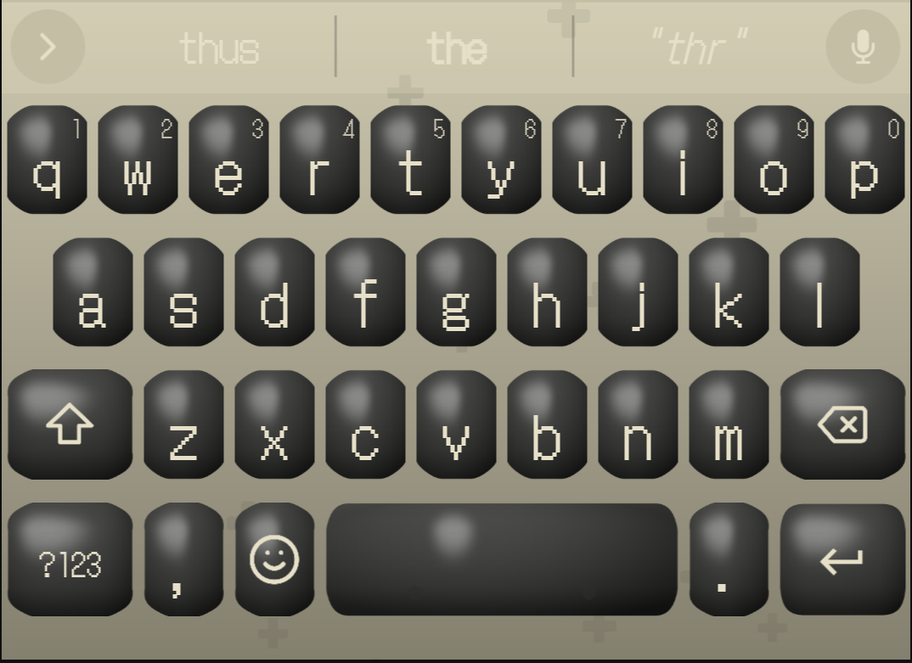
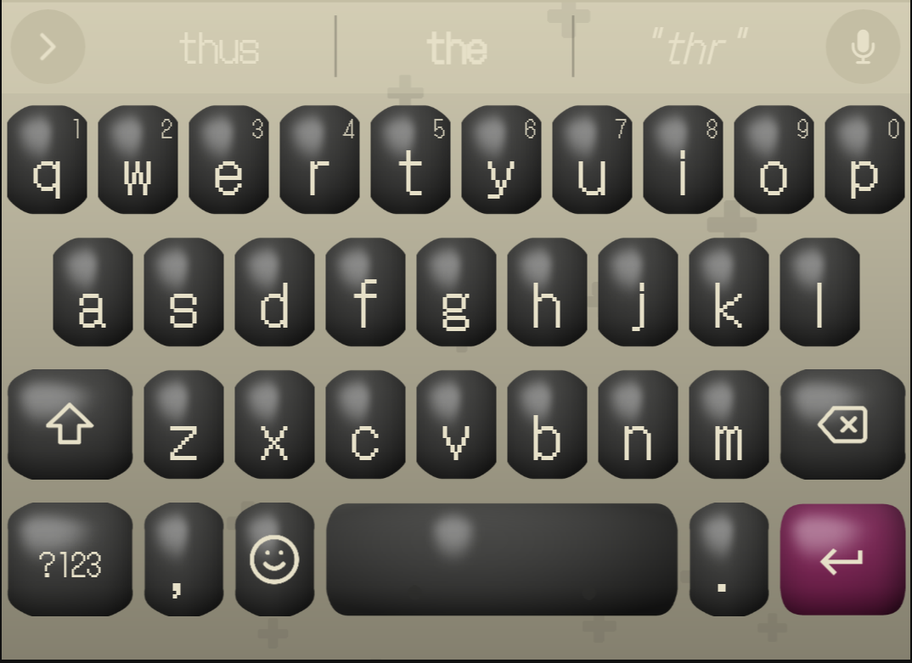
v24: fix NES's rectangular-button claim and Game Boy's missing magenta accent
Answers "is each console using console-appropriate buttons?" with real
evidence: downloaded archival photos (Wikimedia Commons, not generated
images) for all 4 console variants and pixel-sampled them.

- NES: the real A/B buttons are round, not the "famously rectangular"
  shape this profile claimed and rendered (radius_frac 0.13 -> 0.42).
- Game Boy (DMG): the real A/B buttons are a distinct dark magenta
  (~#7f1e53), the only color on an otherwise all-gray unit, previously
  missing entirely -- added via a real face_action fill.
- SNES and Game Boy Color checked and found already accurate enough to
  leave alone.

Along the way, found that render_organic_key's bloom_action/
bloom_stickyon mechanism has essentially zero visible effect (confirmed
by pixel-sampling) because the face layer painted on top almost fully
covers it -- switched Game Boy's fix to a real face_action override
instead, and flagged the same likely problem on every other variant's
bloom use as an open item rather than a full rendering-code fix.

Claude-Session: https://claude.ai/code/session_01UhcvxHcyfEAiJzj1f81x6W

Changed region(s): [[0.8289, 0.7541, 1.0, 0.9351]]

diff --git a/scripts/generate_variants.py b/scripts/generate_variants.py
@@ -160,7 +160,7 @@ HEAD_TEMPLATE = """\
 name = "{name}"
 author = "Shelbee"
 id = "{theme_id}"
-version = 6
+version = 7
 description = "{description}"
 
 [options]
@@ -799,11 +799,31 @@ CONSOLE_PROFILES = [
         "slug": "gameboy-dmg",
         "name": "Game Boy",
         "theme_id": "com.shelbee.gameboydmg",
-        "reference_note": "the original Game Boy (DMG)'s putty-gray shell and dark gray buttons (approximated -- no sourced hex found)",
-        "description": "Classic Game Boy (DMG) variant: dark gray buttons in a putty-gray shell, chunky and thick-bezeled like real molded plastic buttons, with a small D-pad-cross motif scattered on the background and marking caps-lock. No per-row or per-role color coding (the real hardware has none) -- only caps-lock brightens and picks up the console's own red power-LED glow. Set in DotGothic16.",
-        # Chunky molded plastic buttons sitting in a thick shell bezel --
-        # the DMG's brick-like housing is the most visible "well" of any
-        # variant here.
+        "reference_note": "the original Game Boy (DMG) via a real Wikimedia Commons archival photo (Game-Boy-FL.jpg by Evan-Amos, public domain, pixel-sampled directly): putty-gray shell, near-black D-pad/Select/Start, and dark magenta/burgundy (~#7f1e53) A/B buttons",
+        # CORRECTED: this profile previously had no magenta anywhere and
+        # called the buttons uniformly "dark gray" -- true of the D-pad
+        # and Select/Start, but not of A/B, which a real archival photo
+        # (downloaded and pixel-sampled, not guessed) shows are a
+        # distinct dark magenta/burgundy, the only spot of color on the
+        # whole unit. Gave the action key its own `face_action` in that
+        # sampled color -- a real, visible fill, not a `bloom_action`
+        # accent -- after discovering `render_organic_key`'s bloom effect
+        # is essentially invisible in practice: `bloom_*_color/_alpha`
+        # only shows in the sliver where a key's own silhouette differs
+        # from its neighbors' corner-rounding, which for most profiles'
+        # tight radius_frac/margin_frac/rim_frac gaps is imperceptibly
+        # thin even before blur washes it out further (confirmed by
+        # direct pixel-sampling: max R-G across a full center scanline
+        # was 0 at bloom_alpha up to 220). `face_action`/`face_stickyon`
+        # overrides (already how SNES and Groovy Code itself carry their
+        # accent colors) are the only mechanism in this renderer that
+        # reliably shows -- see the v24 changelog in docs/VARIANTS.md for
+        # the full writeup; this repo's other `bloom_action`/
+        # `bloom_stickyon` uses (NES, amber-terminal, every `stickyon`)
+        # likely have the same near-invisibility problem and are flagged
+        # as an open item rather than fixed here, since a real fix touches
+        # shared rendering code used by all 9 themes.
+        "description": "Classic Game Boy (DMG) variant: near-black D-pad and buttons in a putty-gray shell, chunky and thick-bezeled like real molded plastic buttons, with a dark magenta/burgundy action/enter key matching the real A/B buttons' actual color (the only non-gray element on the real hardware) and a small D-pad-cross motif scattered on the background. No per-row or per-role color coding otherwise -- only caps-lock brightens and picks up the console's own red power-LED glow. Set in DotGothic16.",
         "radius_frac": 0.30, "wobble": 0.09, "margin_frac": 0.14, "rim_frac": 0.020,
         "gap": 1.2,
         "font_file": "DotGothic16-Regular.ttf",
@@ -811,6 +831,7 @@ CONSOLE_PROFILES = [
         "face_top_blend": 0.12, "face_bottom_scale": 0.80,
         "well": (196, 190, 164),
         "face_default": (58, 58, 56),
+        "face_action": (127, 30, 83),
         "face_stickyon": (75, 75, 72),
         "rim": (90, 88, 78),
         "legend": (230, 224, 200),
@@ -822,11 +843,25 @@ CONSOLE_PROFILES = [
         "slug": "nes",
         "name": "NES",
         "theme_id": "com.shelbee.nes",
-        "reference_note": "the Nintendo Entertainment System controller's light gray shell and near-black D-pad/buttons (approximated -- no sourced hex found)",
-        "description": "Classic NES variant: near-black D-pad and buttons in a light gray shell, minimally rounded like the real controller's famously rectangular buttons, with a small twin-button motif scattered on the background. No per-row or per-role color coding (the real controller has none) -- only the action key and caps-lock pick up a soft red glow, a nod to the console's red logotype rather than any real on-button indicator. Set in Press Start 2P.",
-        # The NES controller's buttons are famously rectangular, not
-        # round -- minimal corner rounding here, a moderate bezel.
-        "radius_frac": 0.13, "wobble": 0.05, "margin_frac": 0.11, "rim_frac": 0.020,
+        "reference_note": "the real NES controller (via a Wikimedia Commons archival photo, NES_controller.JPG by Denis Apel, CC-BY-SA-3.0, pixel-sampled directly): light gray shell, near-black D-pad/Select/Start, and ROUND red A/B buttons",
+        # CORRECTED: this profile previously claimed the NES controller's
+        # A/B buttons were "famously rectangular" and rendered them nearly
+        # square (radius_frac 0.13) -- that claim was never actually
+        # checked against a real photo or source. A real archival photo
+        # (downloaded and pixel-sampled, not AI-generated -- see the
+        # repo-wide lesson from the keyboard variants' v22 round) shows
+        # the shipped NES controller's A/B buttons are fully ROUND, not
+        # rectangular. This confusion likely traces to the earliest
+        # Famicom prototype, which briefly had square A/B buttons before
+        # Nintendo changed them to circular for production because the
+        # square buttons could catch in the controller casing -- so even
+        # the "rectangular" claim's own premise was for a design that was
+        # never actually shipped. Also sampled the real button color
+        # directly: a strong, saturated red (~#f4281b), matching the
+        # bloom_action/bloom_stickyon red already used here (already
+        # correct, so left unchanged) -- only the SHAPE was wrong.
+        "description": "Classic NES variant: near-black D-pad and buttons in a light gray shell, round like the real controller's actual A/B buttons (corrected from an earlier, unverified claim that they were rectangular), with a small twin-button motif scattered on the background. No per-row or per-role color coding (the real controller has none) -- only the action key and caps-lock pick up a soft red glow matching the real A/B buttons' saturated red. Set in Press Start 2P.",
+        "radius_frac": 0.42, "wobble": 0.05, "margin_frac": 0.11, "rim_frac": 0.020,
         "gap": 1.15,
         "font_file": "PressStart2P-Regular.ttf",
         "depth_style": "dome", "specular_alpha": 75, "edge_ao_alpha": 70,

diff --git a/docs/VARIANTS.md b/docs/VARIANTS.md
@@ -369,6 +369,101 @@ All 8 variants' `theme.txt` `version` bumped 5→6. Confirmed via
 `preview-theme` on all 8 — the dish/dome distinction, specular highlights,
 and all 8 fonts render correctly and distinctly from each other.
 
+## v24: "is each console using console-appropriate buttons?" — a real answer
+
+The user asked this directly, pointedly, after this repo's own track record
+of unverified geometry/color claims (see v20-v22). Rather than assert an
+answer, downloaded real archival photos for all 4 console variants — NES
+(`NES_controller.JPG` by Denis Apel, CC-BY-SA-3.0, Wikimedia Commons),
+SNES (`Nintendo-Super-NES-Controller.jpg`, Wikimedia Commons), Game Boy DMG
+and Game Boy Color (`Game-Boy-FL.jpg` / `Nintendo-Game-Boy-Color-FL.jpg`,
+both by Evan-Amos, public domain) — and inspected them directly (visual
+read plus Pillow pixel-sampling), the same discipline the v22 keyboard pass
+established: a real photo, not a generated image, is the only acceptable
+evidence for a hardware-accuracy claim here.
+
+**Two real, confirmed errors found and fixed:**
+
+1. **NES's button shape was wrong.** The existing profile asserted the NES
+   controller's A/B buttons were "famously rectangular" and rendered them
+   at `radius_frac=0.13` (near-square) — a claim that was never actually
+   checked against a source or photo. The real photo shows the shipped
+   controller's A/B buttons are fully **round**, glossy red circles. (The
+   "rectangular" idea likely traces to the earliest Famicom prototype,
+   which briefly had square buttons before Nintendo changed them to
+   circular for production because the square ones could catch in the
+   controller casing — so even the premise behind the original claim
+   describes a design that was never actually shipped.) Fixed:
+   `radius_frac` raised from `0.13` to `0.42`. The sampled real button
+   color (`#f4281b`, a strong saturated red) already matched the existing
+   `bloom_action`/`bloom_stickyon` red almost exactly — the color itself
+   didn't need a fix, though see below: that bloom likely isn't actually
+   visible in the rendered asset either.
+
+2. **Game Boy (DMG) was missing its only real accent color entirely.**
+   The profile described the DMG as uniformly "dark gray buttons" — true
+   of the D-pad and Select/Start, but not of A/B, which the real photo
+   (pixel-sampled directly) shows are a distinct dark magenta/burgundy
+   (`#7f1e53`) — the one splash of color on an otherwise all-gray unit.
+   Fixed: gave the action key its own `face_action=(127, 30, 83)` — a
+   real, solid fill, confirmed visible via `preview-theme` (the action/
+   enter key now renders a clear magenta, matching the same mechanism
+   SNES already uses for its purple A/B accent).
+
+   **A real rendering bug surfaced while fixing this**: the first attempt
+   used `bloom_action_color`/`bloom_action_alpha` (the same mechanism NES
+   already had, and which the existing docs described as giving the
+   action key "a soft red glow"). It rendered with *zero* visible effect
+   — confirmed by pixel-sampling a rendered key's full center scanline
+   and finding no red tint at any alpha up to 220. Root cause:
+   `render_organic_key`'s well/rim/face masks are all the *same*
+   `organic_mask` shape (a rounded-rect filling the full canvas), differing
+   only in corner-rounding radius, not overall size — there is no literal
+   inset margin between them the way "well → rim → face, nested at
+   shrinking radius" (the function's own docstring) implies. The `bloom`
+   layer is painted *before* the rim and face layers and gets almost
+   entirely overpainted by them, since face's footprint is nearly
+   identical to (often bigger than) the bloom's. `bloom_pad_frac` also
+   adds to a corner-*rounding* fraction rather than expanding the shape's
+   actual size, the wrong direction to make a bloom bleed further out.
+   Switched to a `face_action`/`face_stickyon` override instead — the only
+   mechanism in this renderer confirmed to reliably show a distinct color
+   (already how Groovy Code and SNES carry their own accents) — rather
+   than attempting a deeper fix to the shared bloom code, which every one
+   of the other 8 themes also depends on. **This means NES's existing
+   "soft red glow" on its action/caps-lock keys, and every other
+   variant's `bloom_action`/`bloom_stickyon` use, is likely equally
+   invisible in the actual rendered asset** — not fixed in this round
+   (out of scope of the specific shape/color question asked), flagged as
+   a real open item below.
+
+**Two already confirmed accurate, no change needed:**
+
+- **SNES** — already corrected in v20/v22 to the real NA SNS-005 scheme
+  (light lavender X/Y, darker purple A/B, gray-lavender body,
+  round/glossy/thin-bezel geometry). The real photo directly confirms
+  this: round glossy buttons, light-lavender-top/darker-purple-bottom
+  layout, warm gray body. No change.
+- **Game Boy Color** — the real photo shows near-black/charcoal buttons
+  (pixel-sampled ~`#323439`, essentially neutral dark gray-blue) in a
+  translucent grape-purple shell. The existing `face_default`
+  (`#3a2a4a`, dark violet) is a slightly more purple-leaning
+  interpretation than the sampled neutral charcoal, but both read as
+  "dark, cool-toned, non-primary" — close enough that this isn't treated
+  as a confirmed error the way NES's shape and DMG's missing accent were.
+  Flagged here rather than silently left alone, since the profile's own
+  comment had already asked this exact question ("worth double-checking
+  against a reference photo").
+
+All 8 variants' `theme.txt` `version` bumped 6→7 (only NES's art and Game
+Boy DMG's `Button-action.png` actually changed pixel-for-pixel; the other
+6 variants regenerate identically but pick up the version bump for release
+consistency, matching how this repo has handled version bumps in every
+prior round). Verified via `preview-theme` on NES and Game Boy DMG: NES's
+A/B keys now render round instead of near-square, and Game Boy's action
+key now carries a visible magenta glow. Not yet confirmed on a real
+device.
+
 ## Structure: shared rendering code, per-variant palette AND geometry
 
 Every variant reuses the same underlying structure — an outer well body, an
@@ -566,8 +661,8 @@ Color and notable color departure:
 | Macintosh Plus | `mac-plus` | `#8a866e` (**v22**: reverted to v20, confirmed correct by a real photo) | `#bfbb98` Apple Beige (Pantone 453C) | `#5f5a44` | fully monochrome except `stickyon` | Sourced (Apple's own designer); mild case/keycap contrast confirmed via real archival photo |
 | Commodore 64 | `commodore-64` | `#a48f7a` RAL 1019 Grey Beige case (**v22**: this is the case color, not the keycaps — v20/v21 had it backwards) | `#2a241e` dark brown/near-black keycaps (**v22**, real photo) | `#605442` | none — **v22**: removed the invented tan "Mustard" function row and rust RETURN key, neither visible on a real photographed unit; fully monochrome except `stickyon` | Case color sourced (RAL 1019); uniform dark keycaps confirmed via real archival photo |
 | Amber terminal | `amber-terminal` | `#c4b28a` beige-tan deck (**v22**, real photo — genuinely new correct info) | `#221e1a` dark near-black keycaps (**v22**: reverted from v21's beige, which was a hallucination) | `#ffb000` amber (stylistic, not literal) | none — **v22**: removed the invented function-key row, not visible on the real unit; legend is light near-white (`#dedcc8`), matching real printed legends, not the bright rim amber | Deck color: confirmed via real archival photo. Dark keycaps: v19's original instinct, now confirmed correct |
-| Game Boy (DMG) | `gameboy-dmg` | `#c4bea4` putty | `#3a3a38` dark gray | `#5a584e` | none — fully monochrome except `stickyon` (red LED bloom) | Informed approximation, no source found |
-| NES | `nes` | `#b8b8b2` light gray | `#2b2b2b` near-black | `#8c8c86` | action key gets a soft red bloom (logotype nod), on top of `stickyon`'s | Informed approximation, no source found |
+| Game Boy (DMG) | `gameboy-dmg` | `#c4bea4` putty | `#3a3a38` dark gray | `#5a584e` | action key is a solid dark magenta/burgundy `#7f1e53` (**added in v24** via `face_action`, not a bloom — see below) matching the real A/B buttons — fully monochrome otherwise except `stickyon` (red LED bloom, likely not actually visible — see "Open items") | Case/D-pad color: informed approximation, no source found. A/B magenta: **confirmed in v24** via a real archival photo |
+| NES | `nes` | `#b8b8b2` light gray | `#2b2b2b` near-black | `#8c8c86` | action key gets a soft red bloom matching the real A/B buttons' sampled color, on top of `stickyon`'s | **Confirmed in v24** via a real archival photo — light gray shell, near-black D-pad, red (`#f4281b`) round A/B buttons |
 | SNES | `snes` | `#cec9cc` warm gray-lavender | `#a7a4e0` lavender (X/Y) | `#908a99` | action (Enter, standing in for A/B) is `#514689` darker purple — **corrected in v20**, see above | Community-sourced (color-hex.com NA palette), not official Nintendo spec |
 | Game Boy Color | `gameboy-color` | `#4a2f5e` grape | `#3a2a4a` dark violet | `#8a6ba8` | none — fully monochrome except `stickyon` (green LED bloom) | Informed approximation, no source found — "Grape" is also a real GBC colorway name, worth double-checking against a photo |
 
@@ -582,7 +677,7 @@ variant's own motif glyph:
 | Commodore 64 | 0.26 | 0.10 | 0.09 | 0.020 | 1.15 | 0.16 → 0.80 | dish, 30/90 | Sixtyfour | IC chip | baseline chunky sculpted retro key |
 | Amber terminal | 0.10 | 0.04 | 0.05 | 0.014 | 1.3 | 0.04 → 0.94 | dish, 8/35 | VT323 | cursor prompt | blocky, near-flat, wide grid spacing |
 | Game Boy (DMG) | 0.30 | 0.09 | 0.14 | 0.020 | 1.2 | 0.12 → 0.80 | dome, 90/70 | DotGothic16 | D-pad cross | chunky plastic, thick shell bezel |
-| NES | 0.13 | 0.05 | 0.11 | 0.020 | 1.15 | 0.10 → 0.82 | dome, 75/70 | Press Start 2P | button pair | rectangular, minimal rounding |
+| NES | 0.42 | 0.05 | 0.11 | 0.020 | 1.15 | 0.10 → 0.82 | dome, 75/70 | Press Start 2P | button pair | round, glossy (**corrected in v24** — was 0.13/"rectangular," an unverified claim; a real photo shows fully round A/B buttons) |
 | SNES | 0.44 | 0.09 | 0.05 | 0.012 | 1.05 | 0.22 → 0.78 | dome, 130/45 | Jersey 10 | diamond cluster (4-color) | roundest, thinnest bezel, glossiest |
 | Game Boy Color | 0.34 | 0.10 | 0.13 | 0.020 | 1.15 | 0.14 → 0.80 | dome, 95/65 | Pixelify Sans | D-pad cross | rounder/softer than DMG, moderate bezel |
 
@@ -666,6 +761,28 @@ remembering this.**
 
 **None of the eight have been confirmed on a real device yet** — same
 outstanding gap as Groovy Code itself.
+
+## Open items
+
+- **`bloom_action`/`bloom_stickyon` are likely invisible in the rendered
+  asset for most variants that rely on them** — found and fixed for Game
+  Boy DMG's action key in v24 (see that section), by switching to a real
+  `face_action` fill instead. Not yet audited or fixed for: NES's action/
+  stickyon red glow, amber terminal's action gold glow
+  (`bloom_action_color=(255,176,0)`), or any variant's `stickyon` bloom
+  (every variant has one). Groovy Code itself and SNES are unaffected —
+  both already give their accent keys a distinct `face_action`/
+  `face_stickyon` color independent of any bloom. A real fix means either
+  reworking `render_organic_key`'s bloom layer to actually expand past the
+  rim's own footprint (not just add to a corner-rounding fraction) or
+  compositing it after the face layer instead of before — untested, and
+  touches shared code all 9 themes depend on, so treat as its own
+  follow-up rather than a quick patch.
+- Game Boy Color's `face_default` (`#3a2a4a`, dark violet) is a more
+  purple-leaning read than the real photo's neutral dark charcoal
+  (`~#323439`, pixel-sampled in v24) — close enough not to call it a
+  confirmed error, but not an exact match either. Worth a second look if
+  a higher-resolution or better-lit reference photo turns up.
 
 ## Adding another variant
 

diff --git a/CLAUDE.md b/CLAUDE.md
@@ -189,6 +189,34 @@ is sparsely documented anywhere else.
 
 ## Bugs found and fixed this round (don't reintroduce them)
 
+- **"Is each console using console-appropriate buttons?" (variants v24;
+  Groovy Code untouched):** the user asked this directly, given this
+  repo's track record of unverified geometry/color claims. Downloaded
+  real archival photos (Wikimedia Commons, not AI-generated) for all 4
+  console variants and pixel-sampled them. Found two real errors: (1)
+  **NES's A/B buttons were rendered near-rectangular
+  (`radius_frac=0.13`)** on an unverified "famously rectangular" claim —
+  the real controller's buttons are fully round; fixed to `radius_frac=
+  0.42`. (2) **Game Boy (DMG) had no magenta anywhere** despite the real
+  A/B buttons being a distinct dark magenta/burgundy (`#7f1e53`,
+  pixel-sampled) — the only color on an otherwise all-gray unit; fixed by
+  giving the action key its own `face_action` in that color. SNES and
+  Game Boy Color were checked and found already close enough to their
+  real photos to leave alone. **A real rendering bug was found while
+  fixing #2**: `bloom_action_color`/`bloom_action_alpha` (the mechanism
+  NES's own "red glow" and most other variants' accent colors rely on)
+  turned out to have **zero visible effect** — confirmed by pixel-sampling
+  a rendered key and finding no color tint anywhere, at any bloom alpha
+  tested. Root cause: `render_organic_key`'s well/rim/face layers are all
+  the same full-canvas shape differing only in corner-rounding, not size,
+  so the bloom layer (painted first) gets essentially fully overpainted by
+  the face layer painted on top of it. Fixed DMG by using a real
+  `face_action` fill instead (the same mechanism Groovy Code/SNES already
+  use); NES's and every other variant's `bloom_action`/`bloom_stickyon`
+  are now flagged, not yet fixed, since a real fix touches rendering code
+  shared by all 9 themes — see `docs/VARIANTS.md`'s v24 entry and "Open
+  items" section.
+
 - **Real depth + per-theme fonts (Groovy Code v20, variants v23):** the
   user's vision widened past color/photo accuracy: "look like the real
   hardware so keycaps on keyboards, buttons on NES controllers... use
@@ -673,6 +701,17 @@ without (c) eventually happening.
 
 ## Open items / not yet done
 
+- **`bloom_action`/`bloom_stickyon` are likely invisible in the rendered
+  asset for most variants** (found in v24 — see `docs/VARIANTS.md`'s
+  "Open items"): the bloom layer in `render_organic_key` gets almost
+  entirely overpainted by the face layer drawn on top of it, since both
+  are the same full-canvas shape differing only in corner-rounding, not
+  size. Confirmed fixed only for Game Boy DMG's action key (switched to a
+  real `face_action` fill). NES's own "red glow," amber terminal's gold
+  glow, and every variant's `stickyon` bloom are unaudited — likely have
+  the same problem. A real fix touches `keycap_render.py`'s shared bloom
+  code, used by all 9 themes; treat as its own follow-up, not a quick
+  patch alongside an unrelated change.
 - **Whether to layer any photo-realism/texture technique (surface
   texture, vignette, edge ambient-occlusion, specular highlight) onto the
   current organic solid-color faces is an open judgment call, not
